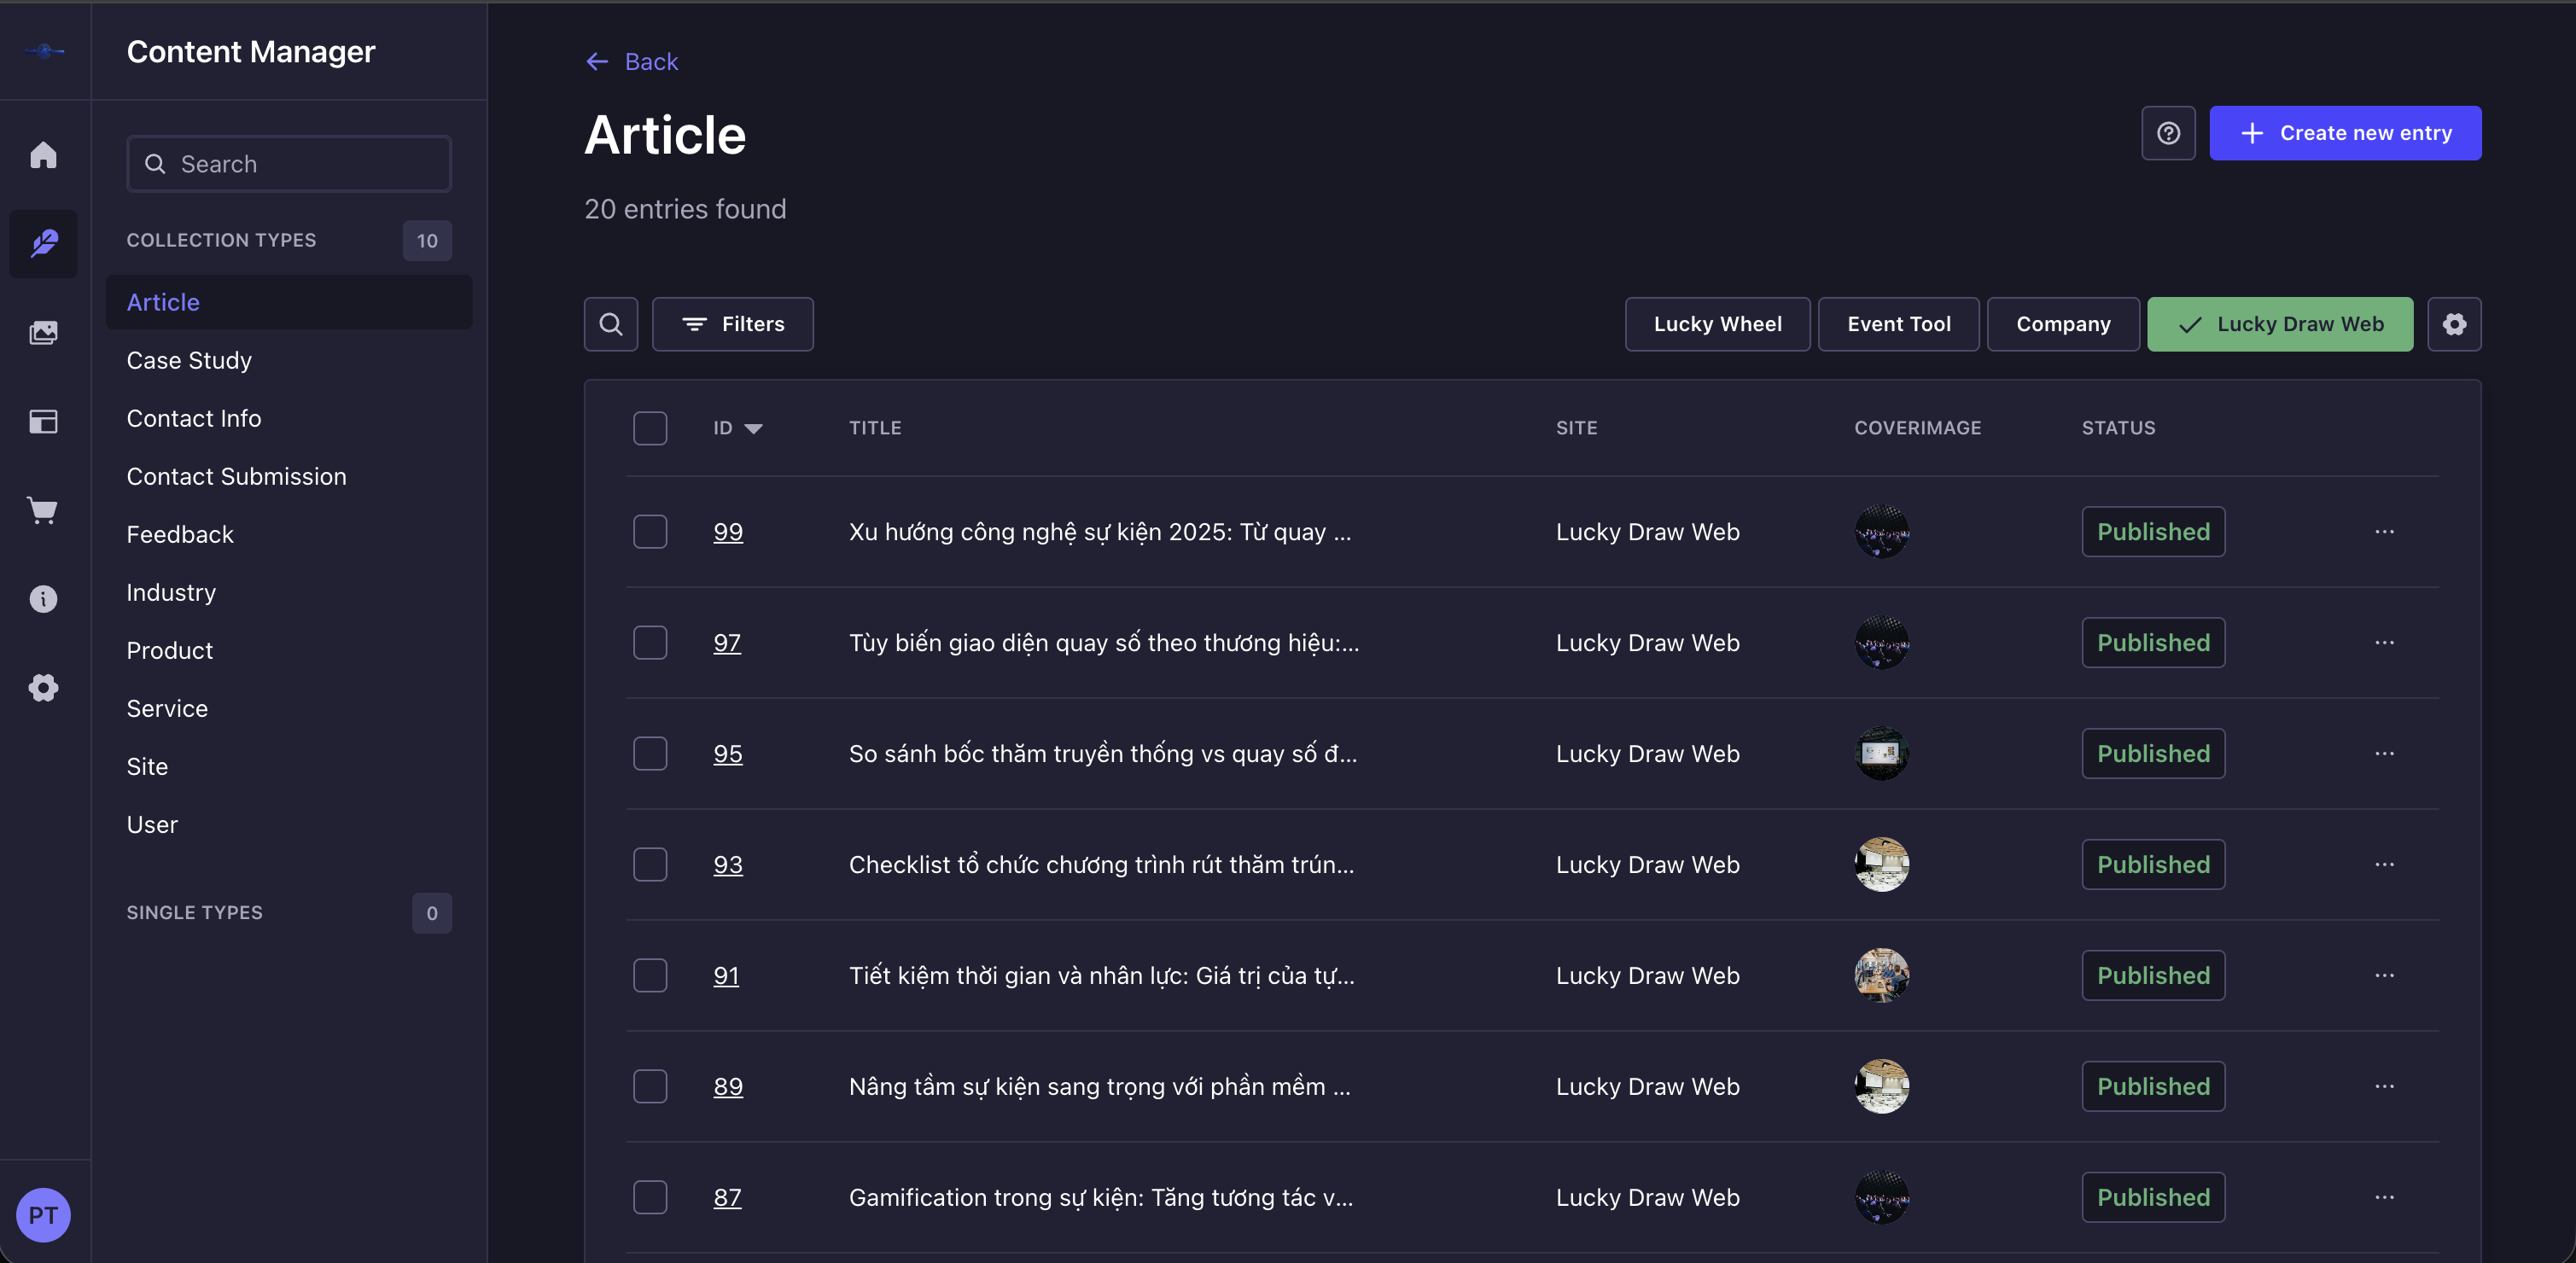
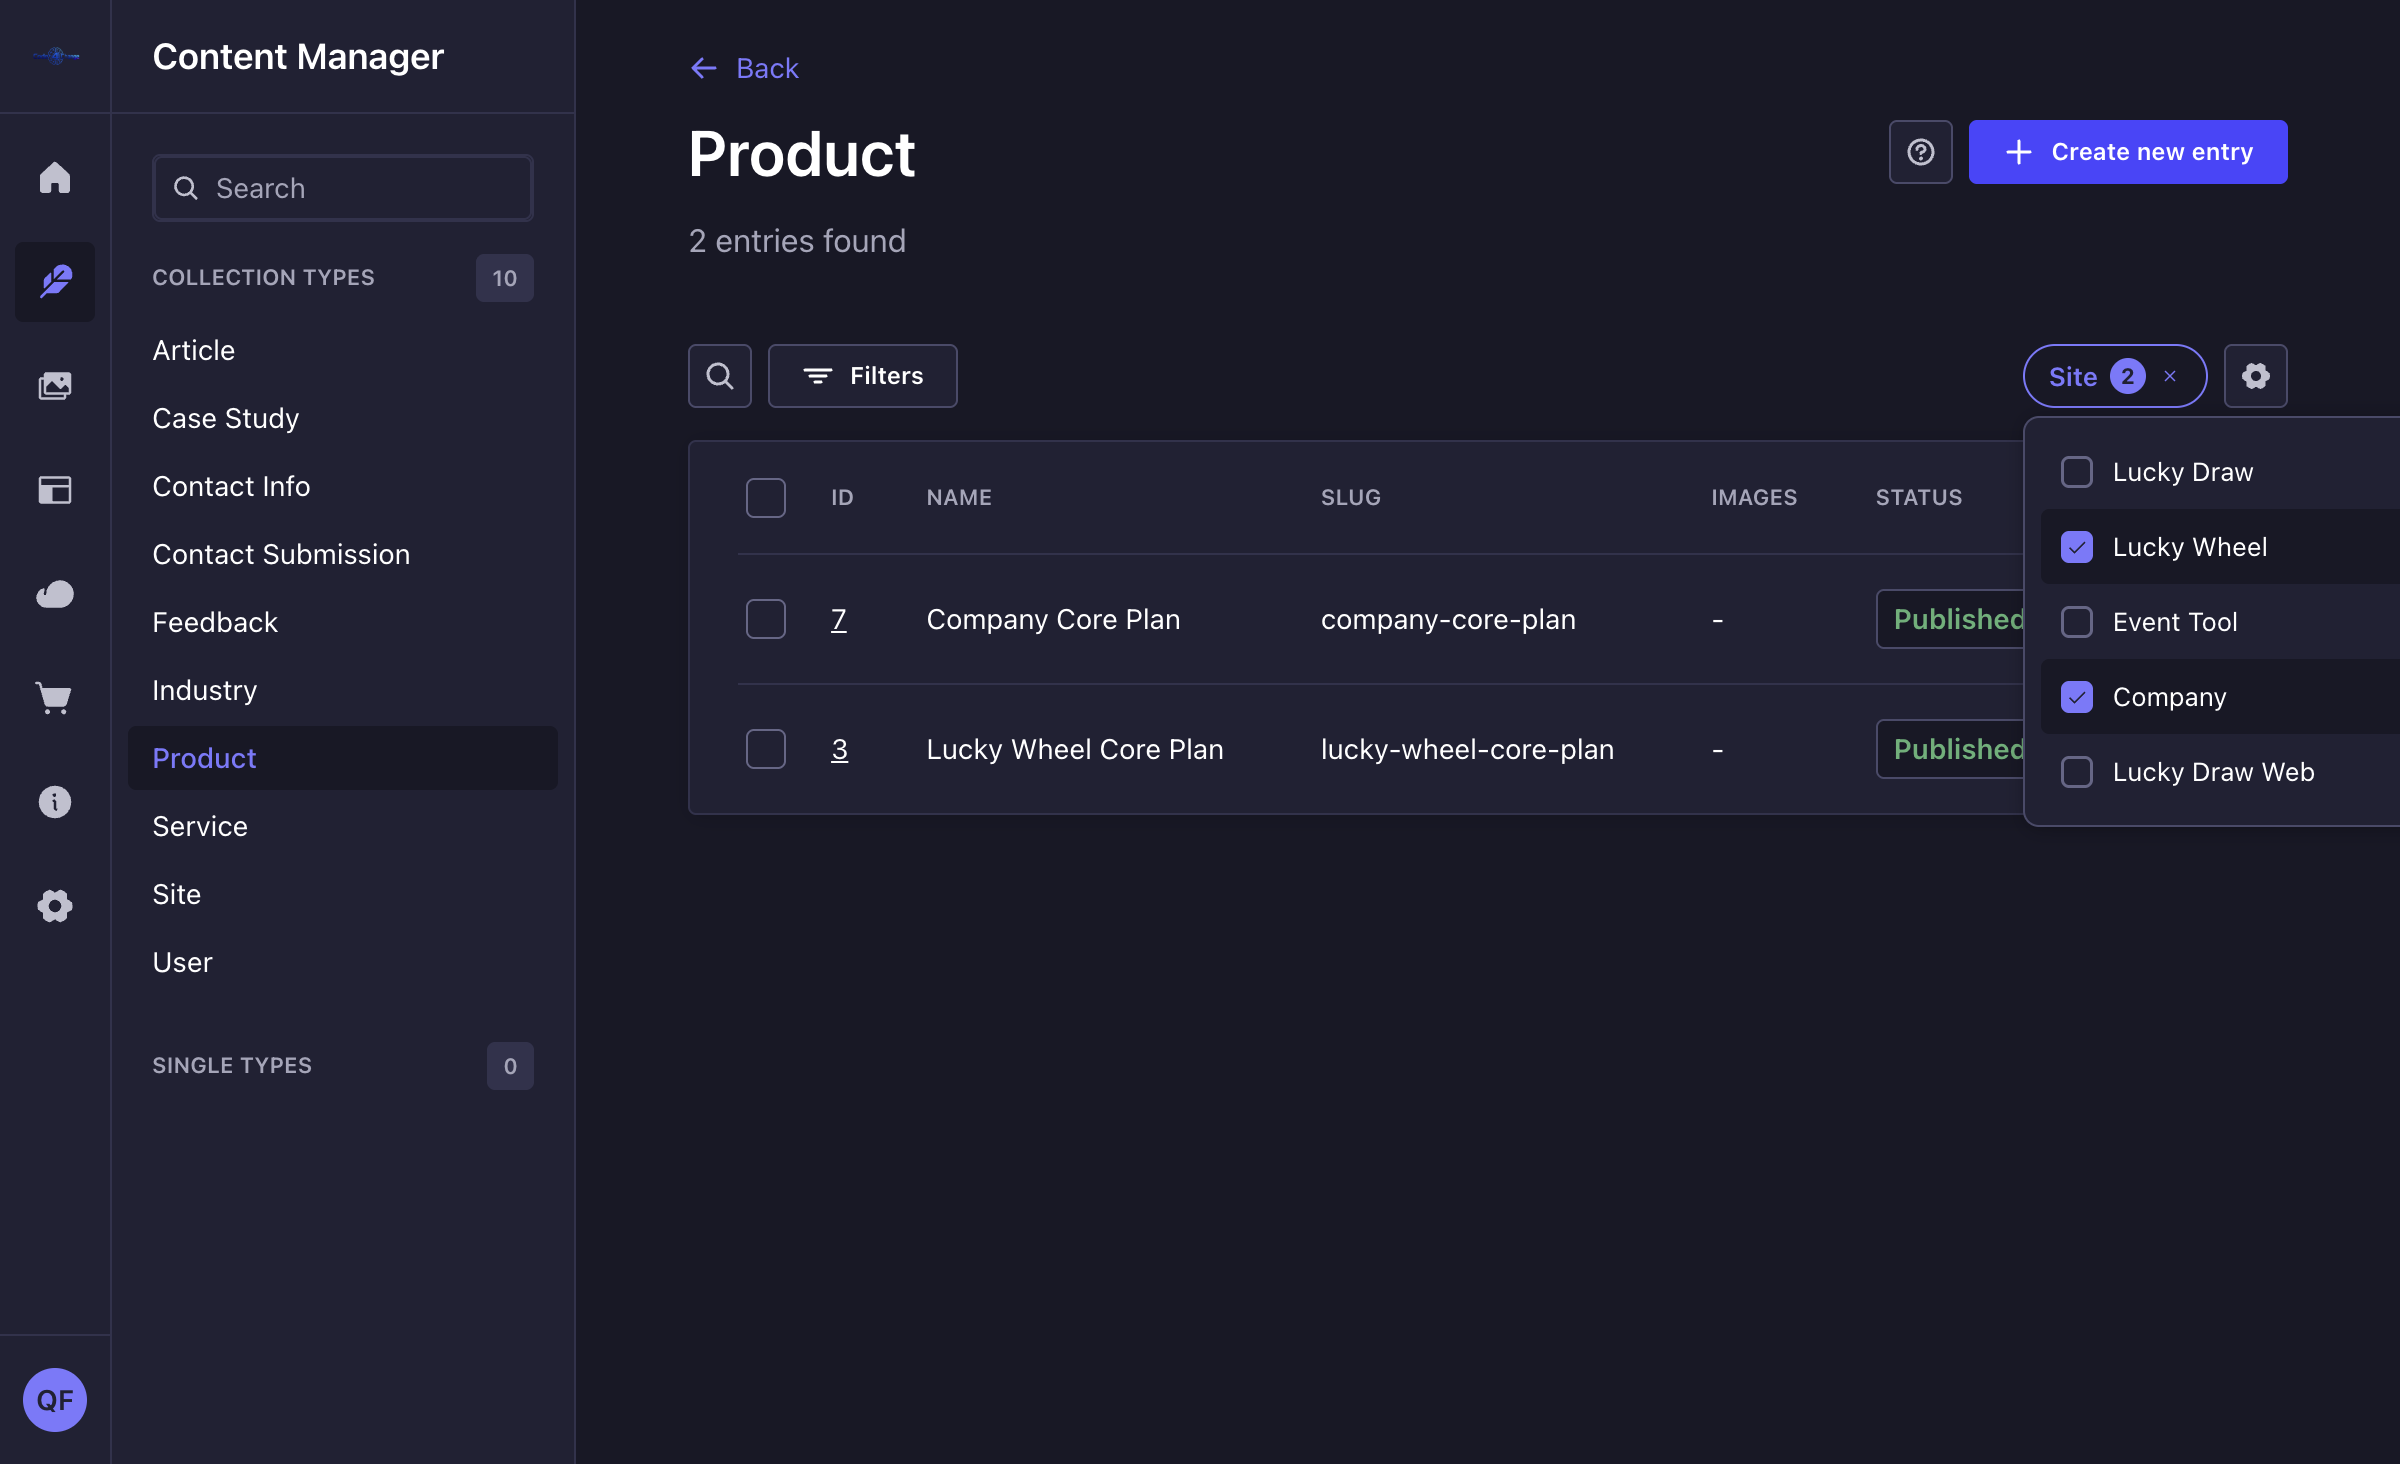
Update README + screenshot for the new custom dropdown UI

diff --git a/README.md b/README.md
@@ -1,9 +1,9 @@
 # strapi-plugin-quick-filters
 
-**One-click filter pills for the Strapi Content Manager — no more Filters popover
-gymnastics.**
+**One-click filter dropdowns for the Strapi Content Manager — no more Filters
+popover gymnastics.**
 
-![Quick Filters in action — filtering Articles by site with a single click](docs/screenshot.png)
+![Quick Filters in action — filtering Products by site with a custom multi-select dropdown](docs/screenshot.png)
 
 ## The problem
 
@@ -20,21 +20,32 @@ Four clicks and a dropdown hunt, for something that should be one click.
 
 ## The fix
 
-**Quick Filters** renders a row of clickable pills — one per possible value — right
-next to the **Filters** button. Click a pill, the list re-filters instantly. Click it
-again to clear. Select several pills at once for an OR filter. No popover, no
-dropdown, no typing.
+**Quick Filters** renders a compact dropdown — one per configured field — right
+next to the **Filters** button. Click it, tick the values you want, the list
+re-filters instantly. The trigger shows a badge with how many are selected and an
+✕ to clear in one click. No popover, no operator picking, no typing.
 
-- 🎯 **Single or multi-select** per field — a dropdown for "pick one," toggle pills
-  for "pick several"
-- ✅ **Visual selected state** — active pills turn green with a checkmark, so you
-  always see the current filter at a glance
-- 🧠 **Zero per-content-type wiring** — configure the relation field *once*, and every
-  content-type that has it gets the pill bar automatically. Add a 10th content-type
-  with the same relation tomorrow and it just works, no code change.
-- ⚡ **Native Content Manager filtering under the hood** — pills just set the same
-  `filters` query param the built-in Filters UI uses, so pagination, sorting, and
-  every other list-view feature keep working normally.
+- 🎯 **Single or multi-select** per field — a radio-style dropdown for "pick one,"
+  checkboxes for "pick several"
+- 🧩 **Fully custom UI, not the default design-system look** — a purpose-built
+  dropdown (trigger + badge + panel + checkboxes) styled from Strapi's own design
+  tokens (`theme.colors`, `theme.shadows`), so it matches light/dark admin themes
+  without looking like a stock component
+- 📈 **Scales to dozens of options** — a single compact trigger instead of one
+  button per value, with an automatic search box once a field has more than 8
+  options. Adding a 20th site tomorrow doesn't turn the toolbar into a wall of
+  buttons.
+- 🧠 **Zero per-content-type wiring** — configure the relation field *once*, and
+  every content-type that has it gets the dropdown automatically. Add a new
+  content-type with the same relation next month and it just works, no code
+  change.
+- ⚡ **Native Content Manager filtering under the hood** — selections just set the
+  same `filters` query param the built-in Filters UI uses, so pagination, sorting,
+  and every other list-view feature keep working normally.
+- 🔁 **Built to hold many independent filters** — the config takes an array, so a
+  project that eventually needs a "Language" dropdown, a "Status" dropdown, and a
+  "Category" dropdown alongside "Site" just adds more entries; each one gets its
+  own dropdown, resolved independently per content-type.
 
 Built for and battle-tested in production on a real multi-site Strapi CMS (filtering
 articles/products/services/... by which client site they belong to, across 8+
@@ -76,7 +87,7 @@ cp strapi-plugin-quick-filters-*.tgz /path/to/your-app/vendor/
 ```json
 // your-app/package.json
 "dependencies": {
-  "strapi-plugin-quick-filters": "file:./vendor/strapi-plugin-quick-filters-0.1.0.tgz"
+  "strapi-plugin-quick-filters": "file:./vendor/strapi-plugin-quick-filters-<version>.tgz"
 }
 ```
 
@@ -86,13 +97,19 @@ npm install
 
 If your `Dockerfile` runs `npm ci` before copying the full source tree (a common
 pattern for Docker layer caching), make sure `vendor/` is copied in **before** that
-`npm ci` step:
+`npm ci` step, in every stage that runs `npm ci`:
 
 ```dockerfile
 COPY package*.json ./
 COPY vendor ./vendor   # <-- must exist before npm ci resolves the tarball path
 RUN npm ci
 ```
+
+Every time you change the plugin's code, bump its `version` in `package.json`,
+re-run `npm run build && npm pack`, replace the `.tgz` in `vendor/`, update the
+version in the host app's `package.json`, and `npm install` again — npm caches
+`file:` tarball dependencies aggressively by path+version, so reusing the same
+filename after a code change can silently keep the old build installed.
 
 ## Configuration
 
@@ -105,13 +122,14 @@ export default () => ({
     config: {
       filters: [
         {
-          field: 'site',              // the relation attribute name on your content-types
+          field: 'site',               // the relation attribute name on your content-types
           targetUid: 'api::site.site', // the content-type it relates to
-          labelField: 'name',         // which field of the target to show as the pill label
-          mode: 'multi',              // 'multi' = toggle pills, 'single' = dropdown
+          labelField: 'name',          // which field of the target to show as the option label
+          label: 'Site',               // text on the dropdown trigger — defaults to `field`
+          mode: 'multi',                // 'multi' = checkboxes, 'single' = radio dropdown
         },
-        // add as many filter definitions as you need — each applies to every
-        // content-type whose schema has a matching relation attribute
+        // add as many filter definitions as you need — each gets its own dropdown
+        // and applies to every content-type whose schema has a matching relation
       ],
     },
   },
@@ -119,8 +137,10 @@ export default () => ({
 ```
 
 That's it. No further per-content-type setup — every content-type with a `site`
-relation targeting `api::site.site` gets the pill bar automatically, on both
-existing and future content-types.
+relation targeting `api::site.site` gets the dropdown automatically, on both
+existing and future content-types. Need a second, unrelated filter (say, a
+`language` relation)? Add a second object to the `filters` array — it resolves and
+renders completely independently of the first.
 
 ## How it works
 
@@ -130,17 +150,21 @@ existing and future content-types.
   requested content-type's schema against your config and returns the matching
   filter definitions plus the live list of options (id + label) from the target
   content-type.
-- Clicking a pill writes straight to the URL's `filters` query param — the exact
+- The dropdown is a small custom React component (trigger + portal-free absolute
+  panel + checkbox/radio list), styled with `styled-components` reading directly
+  from the Strapi admin's own theme object — no dependency on `@strapi/design-system`
+  components for the visual layer, only for layout primitives (`Flex`).
+- Selecting a value writes straight to the URL's `filters` query param — the exact
   mechanism the Content Manager's own list view already uses — so the list refetches
   through the normal, native filtering path.
 
 ## Requirements
 
 - Strapi `^5.0.0`
-- React 18, React Router 6, styled-components 6 (all already provided by the Strapi
-  admin panel — just make sure they're listed as `peerDependencies` if you fork this,
-  not bundled, or you'll end up with a duplicate React context tree and broken click
-  handlers)
+- React 18, React Router 6, styled-components 6, `@strapi/design-system` and
+  `@strapi/icons` (all already provided by the Strapi admin panel — just make sure
+  they're listed as `peerDependencies` if you fork this, not bundled, or you'll end
+  up with a duplicate React context tree and broken click handlers)
 
 ## License
 